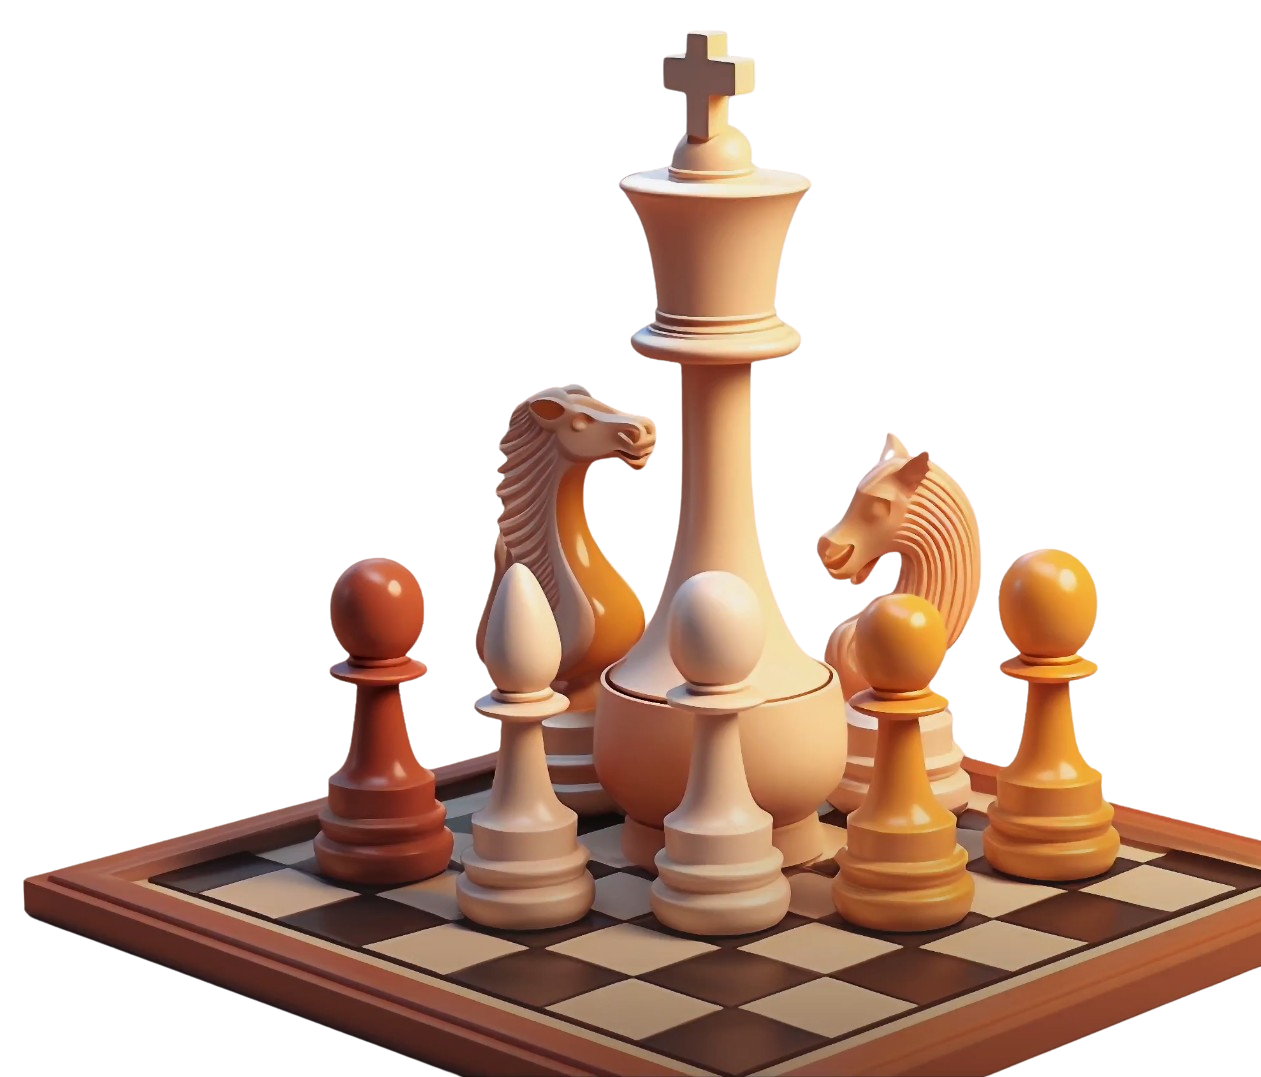
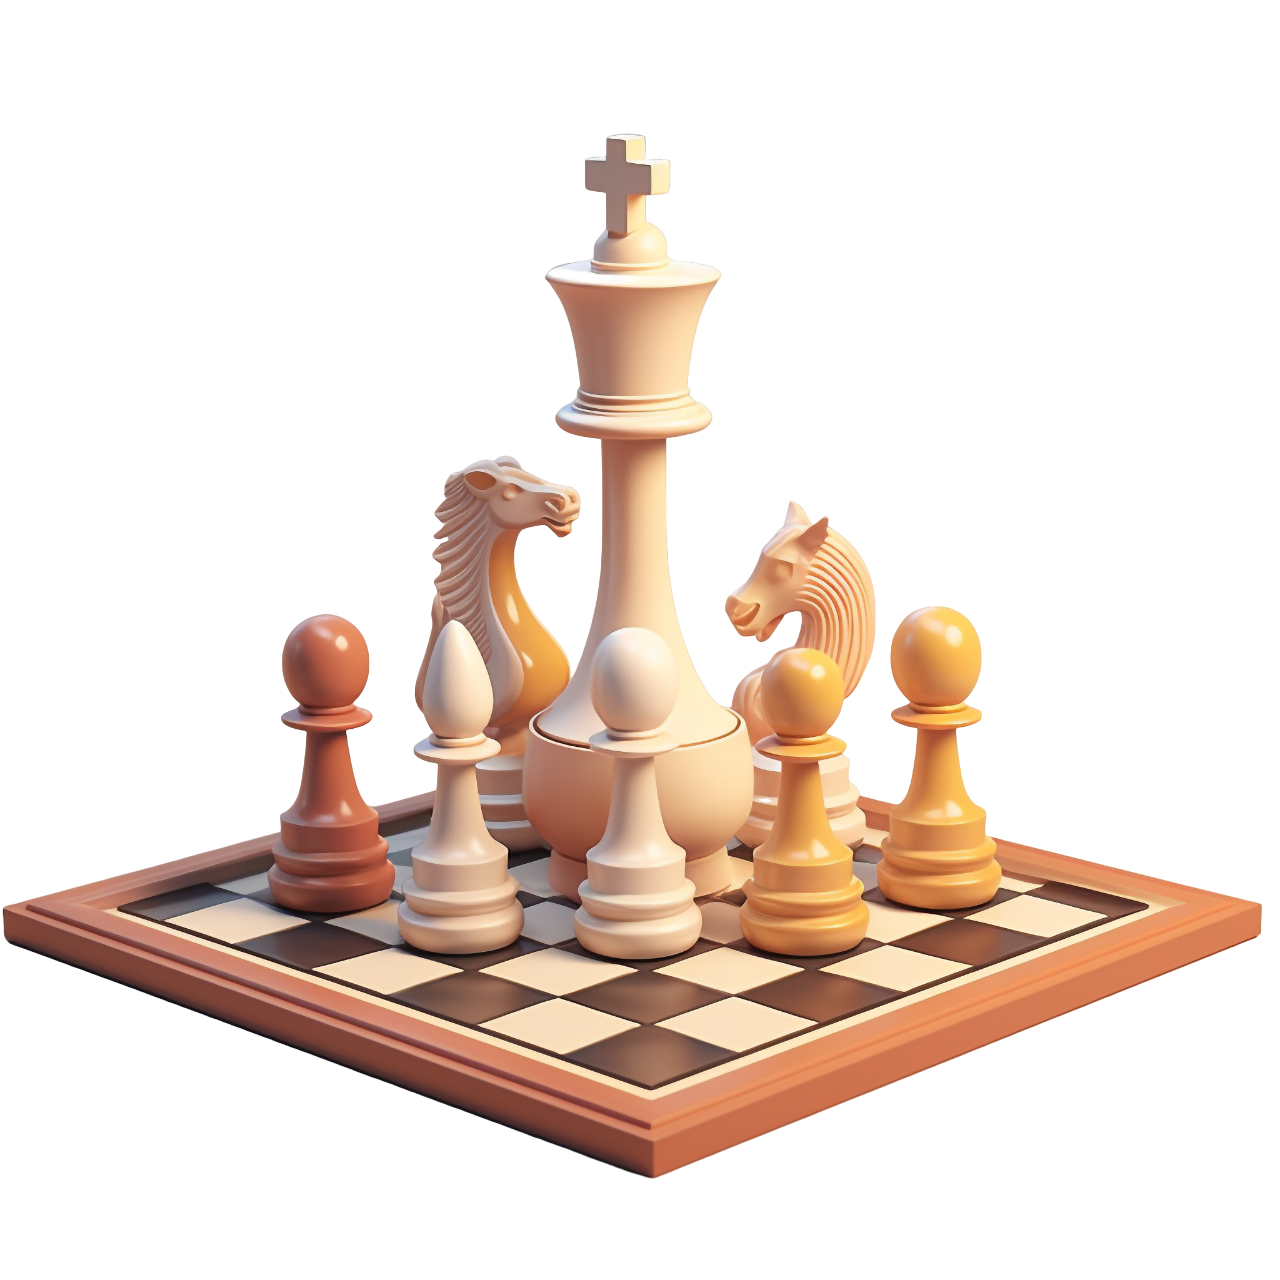
seperated hero Section

diff --git a/src/pages/Home/Home.jsx b/src/pages/Home/Home.jsx
@@ -2,7 +2,7 @@ import React from "react";
 import ReactDOM from "react-dom/client";
 import "../../css/embla.css";
 import EmblaCarousel from "../../js/EmblaCarousel.jsx";
-import Info from "../Info/Info.jsx";
+import Info from "./Info/Info.jsx";
 
 const OPTIONS = { align: "start" };
 const SLIDES = [
@@ -17,8 +17,9 @@ const SLIDES = [
 const Home = () => {
   return (
     <>
-      <div className="bg-custom-gradient min-h-[400vh] flex flex-col justify-between">
-        <div className=" h-screen container m-auto flex-grow">
+    {/* hero section */}
+      <div className="bg-gradient-to-b from-[#BCADA7] via-[#FDD8B7] to-[#BA9C87] flex flex-col justify-between">
+        <div className="container mx-auto flex-grow min-h-[100vh] ">
           <div className="flex justify-start w-full relative">
             <div className="flex flex-col p-3 w-1/2 h-full">
               <div className="mt-20 font-playfair -space-y-11 justify-center text-center">
@@ -41,8 +42,8 @@ const Home = () => {
                   Association
                 </p>
               </div>
-              <div className="flex justify-center">
-                <button className="bg-[#2C1B16] text-white p-3 w-60 rounded-2xl gap-1 font-bold flex justify-center  transform transition-transform duration-300 hover:scale-110 text-lg mt-6">
+              <div className="flex justify-start p-2">
+                <button className="bg-[#2C1B16] text-white p-3 w-60 rounded-2xl gap-1 font-bold flex justify-start transform transition-transform duration-300 hover:scale-110 text-lg mt-6">
                   Chess Festival-2024{" "}
                   <img
                     className="h-[30px]"
@@ -52,23 +53,26 @@ const Home = () => {
                 </button>
               </div>
             </div>
-            <div className="right-28 absolute mt-2 flex items-center">
+            <div className="absolute right-9 -top-14 flex items-center">
               <img
-                className="flex justify-center items-center h-[650px]"
+                className="flex justify-center items-center h-[1000px]"
                 src="./props/board.png"
                 alt=""
               />
             </div>
           </div>
 
-          <div className=" right-5 top-[530px] ">
+          <div className="flex justify-end">
+          <div className="mt-10 ">
             <EmblaCarousel slides={SLIDES} options={OPTIONS} />
           </div>
-          <div className="mt-[50px]">
-            <Info />
           </div>
         </div>
       </div>
+      <div className="mt-[50px] container mx-auto">
+        <Info />
+      </div>
+      {/* Image Gallery  */}
     </>
   );
 };

diff --git a/src/js/EmblaCarousel.jsx b/src/js/EmblaCarousel.jsx
@@ -46,7 +46,7 @@ const EmblaCarousel = (props) => {
         </div>
       </div>
 
-      <div className="embla__dots">
+      {/* <div className="embla__dots">
         {scrollSnaps.map((_, index) => (
           <DotButton
             key={index}
@@ -56,7 +56,7 @@ const EmblaCarousel = (props) => {
             )}
           />
         ))}
-      </div>
+      </div> */}
     </section>
   )
 }

diff --git a/src/pages/Home/Info/Info.jsx b/src/pages/Home/Info/Info.jsx
@@ -2,7 +2,7 @@ import React from "react";
 
 const Info = () => {
   return (
-    <div className="flex justify-center gap-11">
+    <div className="flex justify-center gap-11 container m-auto">
       <div className="w-1/2">
         <h1 className="font-cinzel font-bold flex justify-center text-[60px] text-[#2C1B16]  text-center leading-[60px]">
           About All Jharkhand Chess Association

diff --git a/src/css/embla.css b/src/css/embla.css
@@ -81,7 +81,7 @@
 .embla__controls {
   position: absolute;
   top: 50%;
-  left: -60px; 
+  left: -120px; 
   transform: translateY(-50%);
   display: flex;
   flex-direction: column;

diff --git a/src/pages/Home/ImageGallery.jsx b/src/pages/Home/ImageGallery.jsx
@@ -1,0 +1,9 @@
+import React from 'react'
+
+const ImageGallery = () => {
+  return (
+    <div>ImageGallery</div>
+  )
+}
+
+export default ImageGallery
